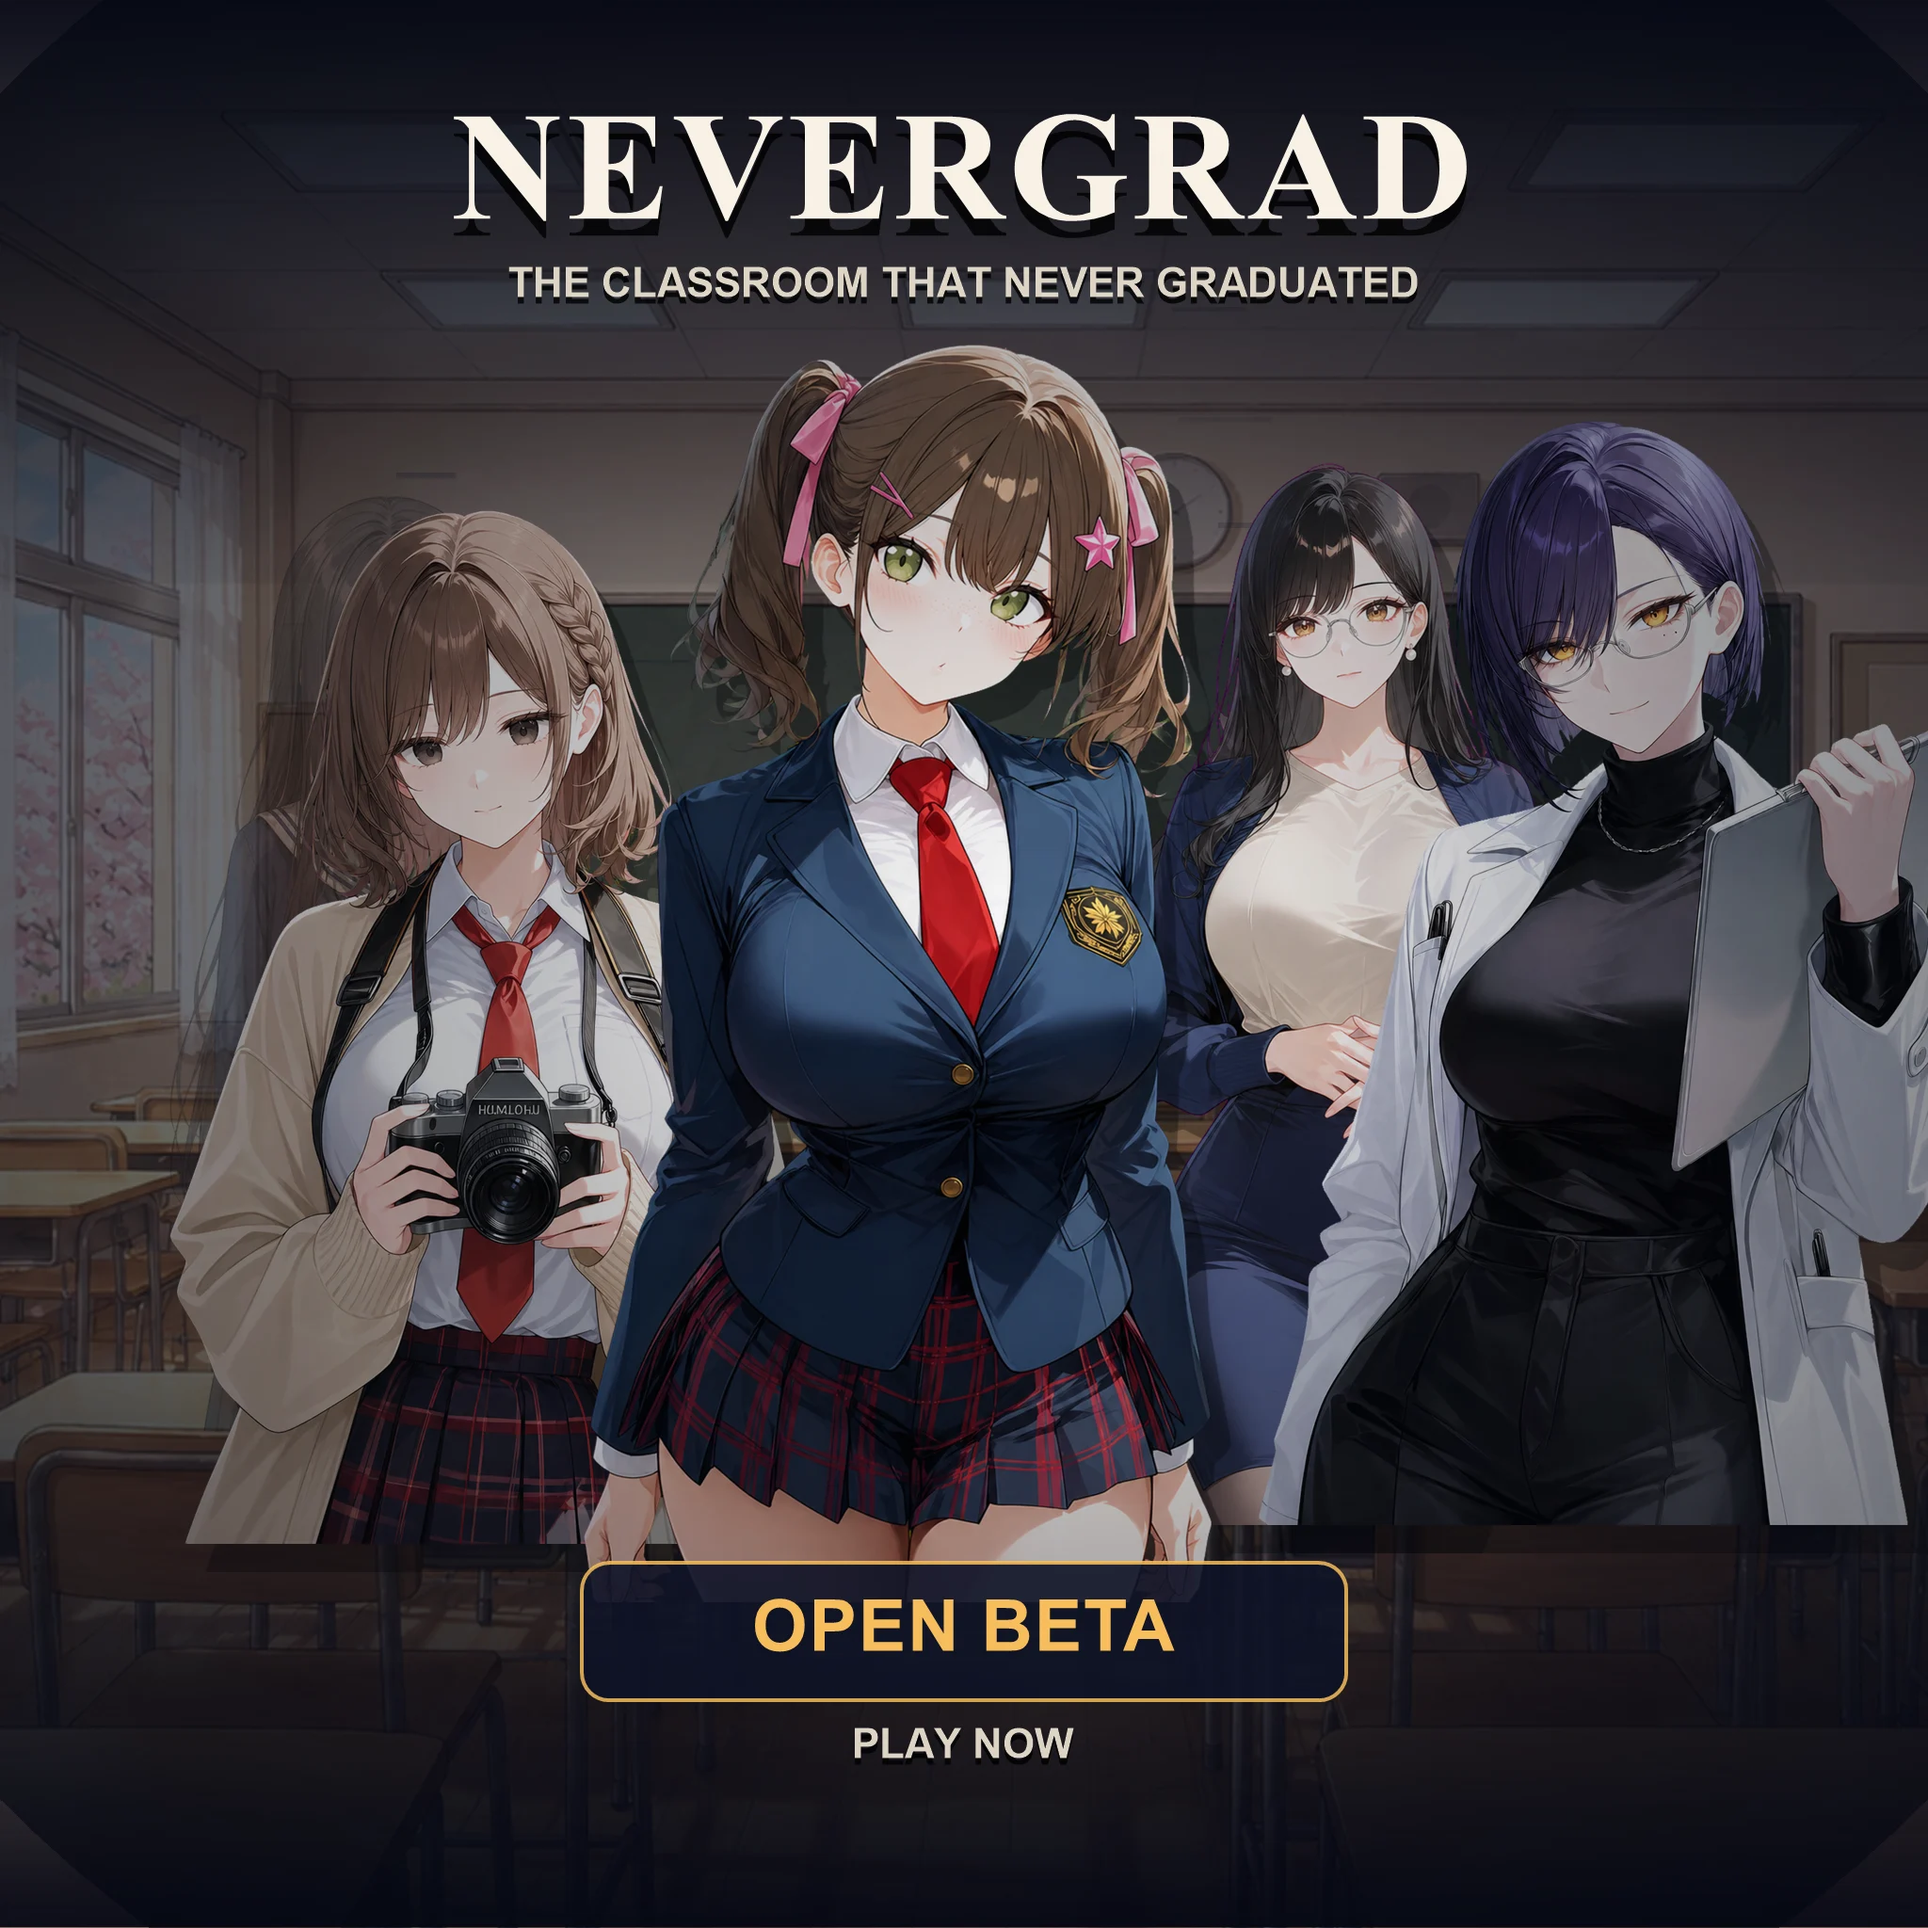
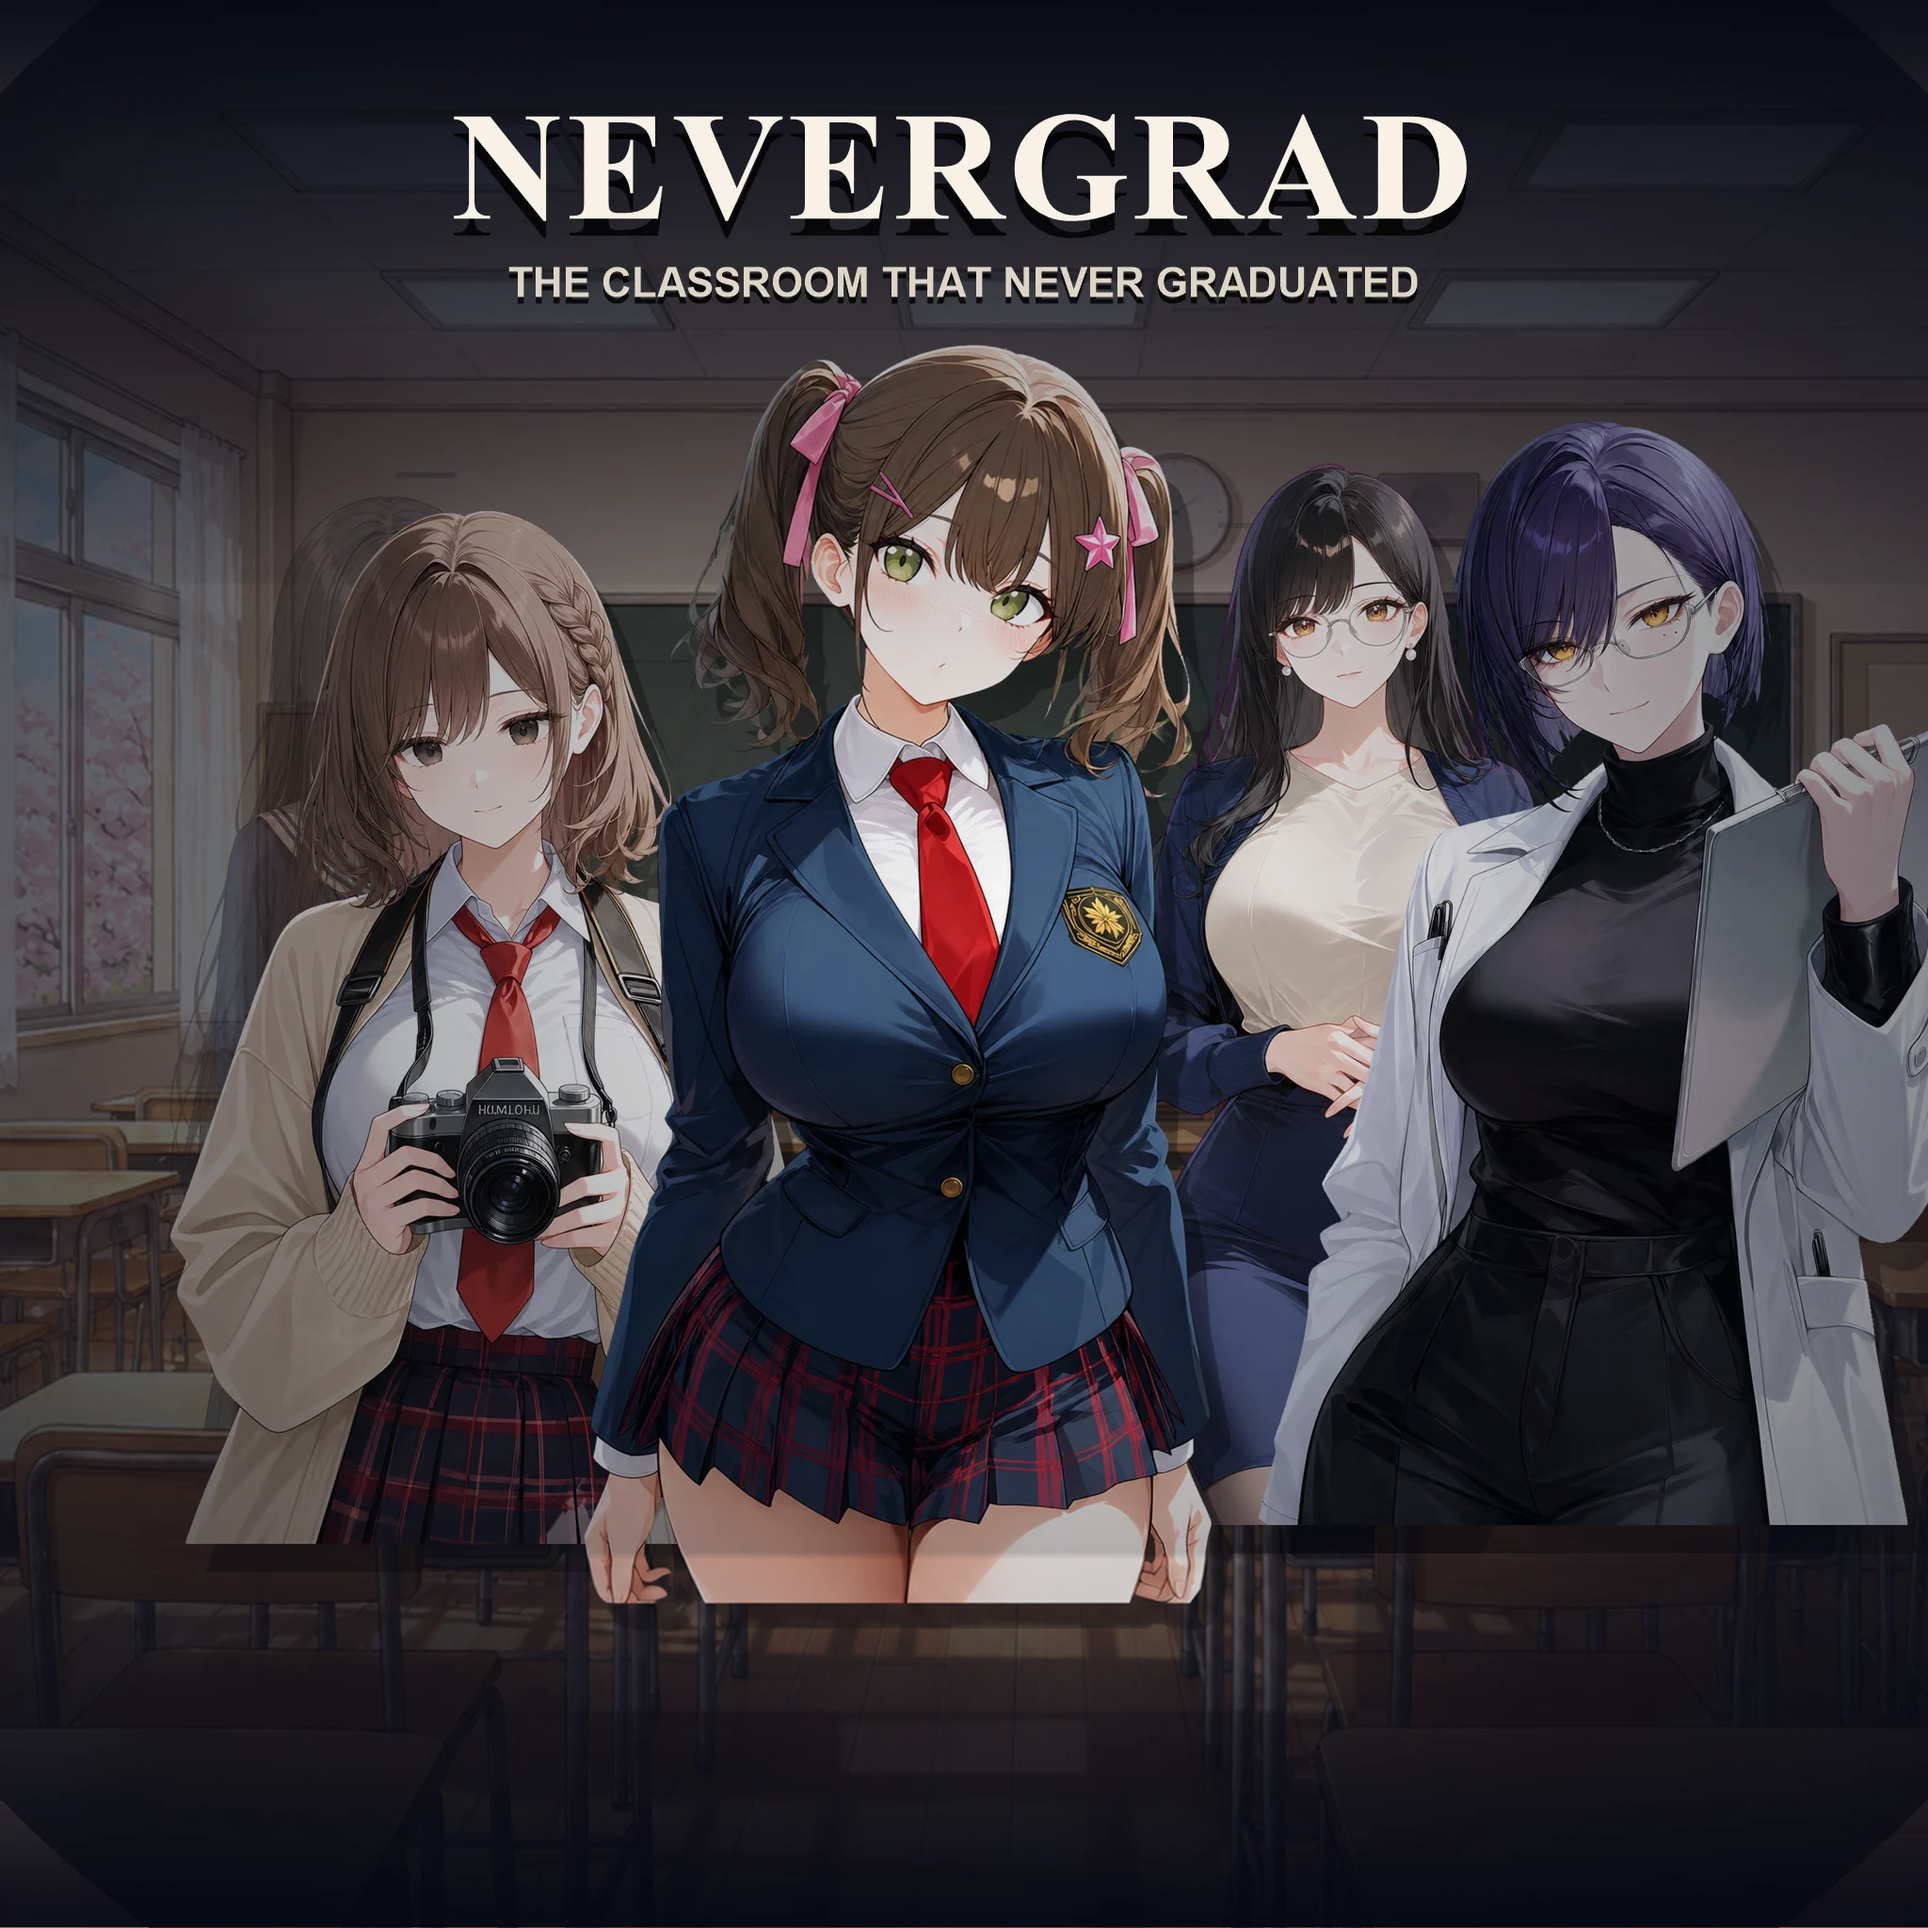
Remove beta and play labels from Nevergrad card artwork

Changed region(s): [[0.2812, 0.7812, 0.7188, 0.9375]]

diff --git a/index.html b/index.html
@@ -260,8 +260,8 @@
 
           <a class="hub-card" href="https://nevergrad.archerlab.dev/" target="_blank" rel="noopener" data-category="게임">
             <picture>
-              <source srcset="assets/images/nevergrad_link.webp" type="image/webp" />
-              <img class="hub-thumb" src="assets/images/nevergrad_link.png" alt="졸업하지 못한 교실 스토리 게임" loading="lazy" />
+              <source srcset="assets/images/nevergrad_link.webp?v=20260909-1" type="image/webp" />
+              <img class="hub-thumb" src="assets/images/nevergrad_link.png?v=20260909-1" alt="졸업하지 못한 교실 스토리 게임" loading="lazy" />
             </picture>
             <div class="hub-body">
               <strong>졸업하지 못한 교실 — 5일의 기록</strong>

diff --git a/index-en.html b/index-en.html
@@ -260,8 +260,8 @@
 
           <a class="hub-card" href="https://nevergrad.archerlab.dev/en/" target="_blank" rel="noopener" data-category="게임">
             <picture>
-              <source srcset="assets/images/nevergrad_link.webp" type="image/webp" />
-              <img class="hub-thumb" src="assets/images/nevergrad_link.png" alt="Nevergrad story game" loading="lazy" />
+              <source srcset="assets/images/nevergrad_link.webp?v=20260909-1" type="image/webp" />
+              <img class="hub-thumb" src="assets/images/nevergrad_link.png?v=20260909-1" alt="Nevergrad story game" loading="lazy" />
             </picture>
             <div class="hub-body">
               <strong>Nevergrad — 5 Days of Records</strong>
